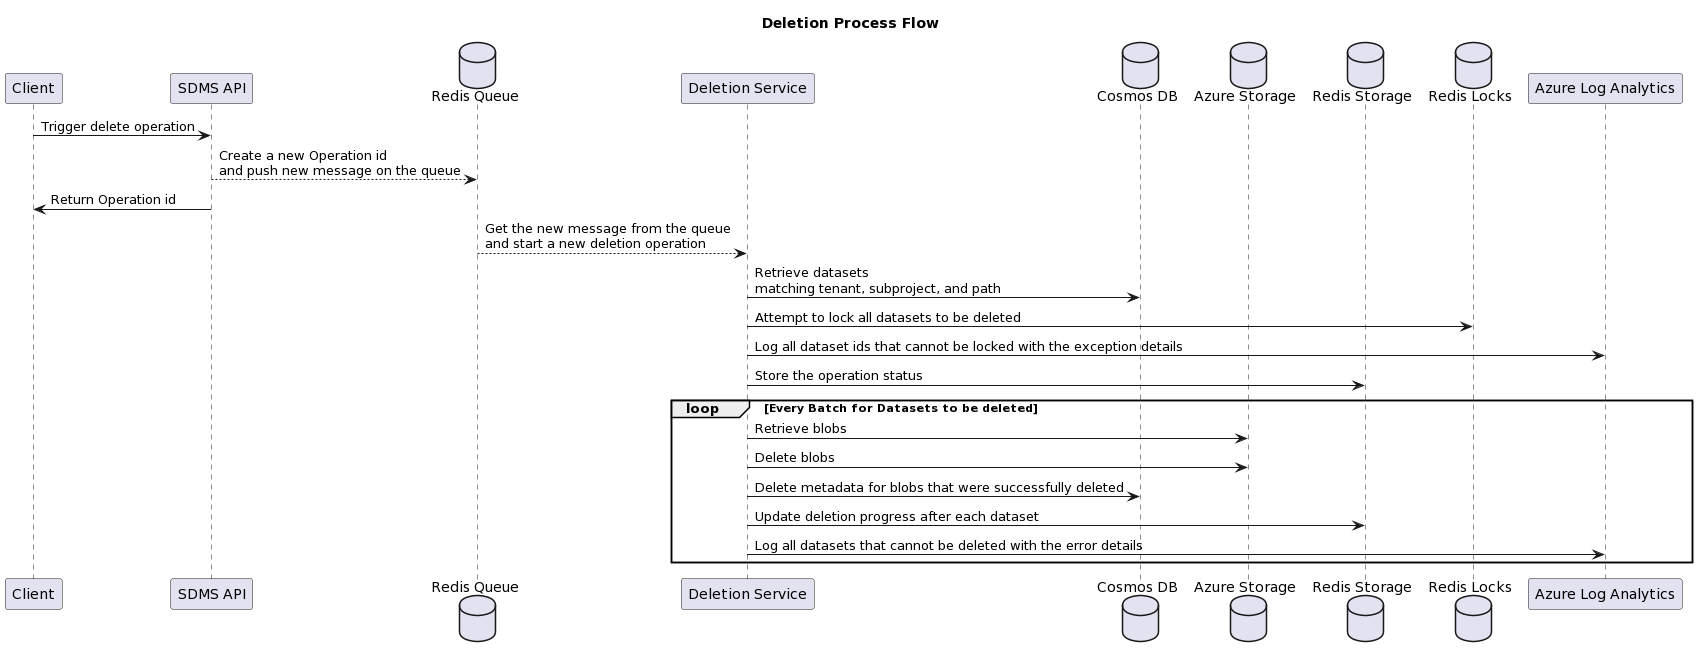
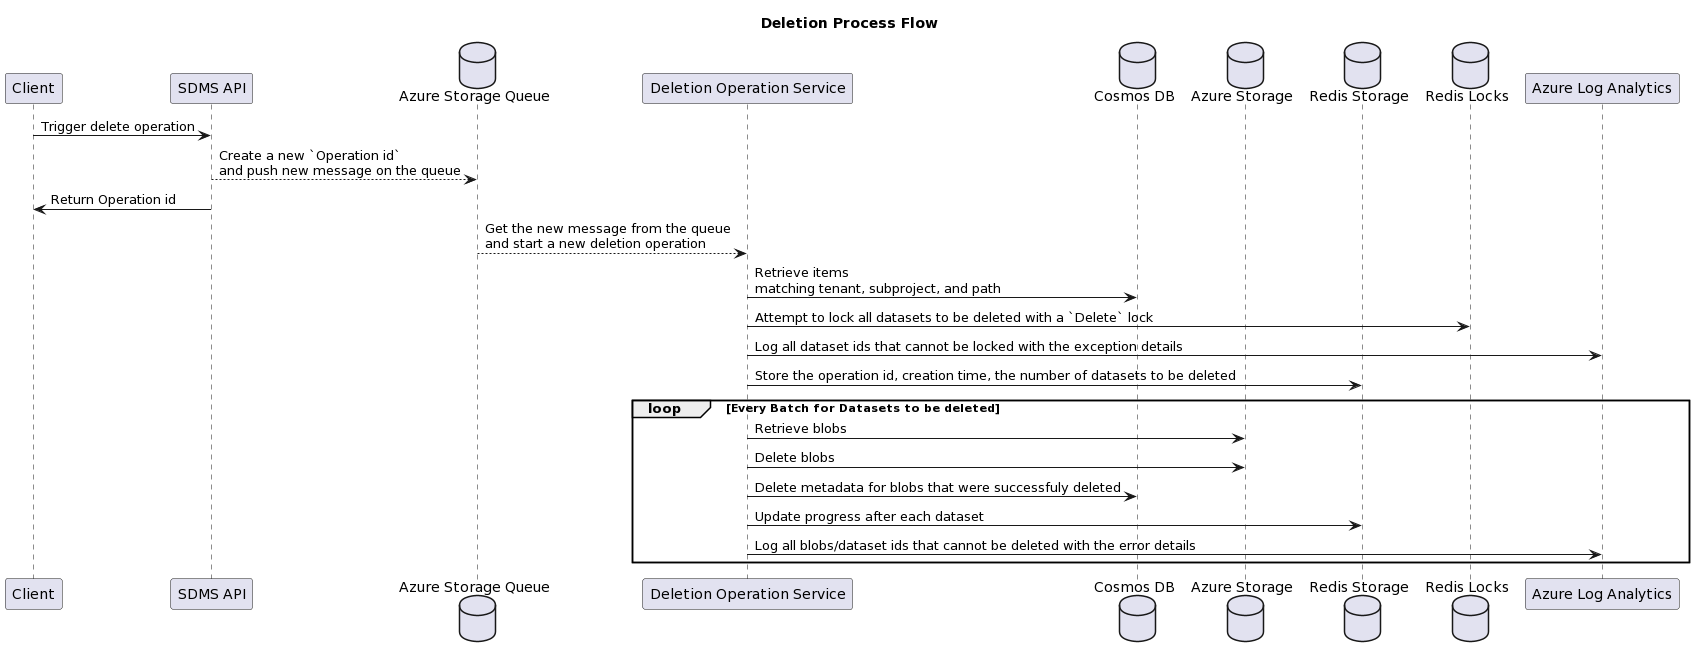
docs: Documentation update for the DeletionOperationRunner

diff --git a/app/sdms/src/cloud/providers/azure/sidecar/src/Sidecar.DeleteOperationRunner/README.md b/app/sdms/src/cloud/providers/azure/sidecar/src/Sidecar.DeleteOperationRunner/README.md
@@ -35,8 +35,8 @@ This project provides an [.env.example](.env.example) file that provides the bas
 |-------------------------------------|---------------------------------------------------------------------------------------------------------------------------------------------------------------------------------------------------------------------------------------------------------------------------------------------------------------------------------------------------------------------------------------------------------------------------------------------------------------------------------------------------------------------------------------------------------------------------| - |
 | __HOST_PORT__                       | On which local port to expose the health-check endpoints.                                                                                                                                                                                                                                                                                                                                                                                                                                                                                                                  | "8001",
 | __SDMS_KEYVAULT_URL__               | Required. Keyvault url stores secret values for all partitions (for cosmos, redis, account storage), while secret names are provided by the DES service. Also stores the Application Resource Id.                                                                                                                                                                                                                                                                                                                                                                           | "<https://kv-4e37ckkpdir6i.vault.azure.net/>",
-| __SDMS_REDIS_QUEUE_HOSTNAME__       | Host of the Redis instance that holds the queue for deletion operations.<br /><br />  In the typical Azure deployment, this Redis instance starts with the prefix `cache`.<br /><br />This value is required if the __DES_SERVICE_HOST__ is not supplied.                                                                                                                                                                                                                                                                                                                 | cache-xxxxx.redis.cache.windows.net:6380,password=password_here,ssl=True,abortConnect=False   |
-| __SDMS_REDIS_QUEUE_PASSWORD__       | Password for the Redis instance that holds the queue for deletion operations.<br /><br />  This value is required if the __DES_SERVICE_HOST__ is not supplied.                                                                                                                                                                                                                                                                                                                                                                                                            | password  |
+| __SDMS_REDIS_QUEUE_HOSTNAME__       | Host of the Redis instance that holds the queue for deletion operation status.<br /><br />  In the typical Azure deployment, this Redis instance starts with the prefix `cache`.<br /><br />This value is required if the __DES_SERVICE_HOST__ is not supplied.                                                                                                                                                                                                                                                                                                                 | cache-xxxxx.redis.cache.windows.net:6380,password=password_here,ssl=True,abortConnect=False   |
+| __SDMS_REDIS_QUEUE_PASSWORD__       | Password for the Redis instance that holds the queue for deletion operation status.<br /><br />  This value is required if the __DES_SERVICE_HOST__ is not supplied.                                                                                                                                                                                                                                                                                                                                                                                                            | password  |
 | __SDMS_REDIS_QUEUE_NAME__           | The name of the queue in Redis; the queue is of type `List`.<br /><br />This value is always required.                                                                                                                                                                                                                                                                                                                                                                                                                                                                    | delete-job-queue   |
 | __STORAGE_QUEUE_NAME__              | The name of the storage queue to use for submitting deletion tasks.<br /><br /> If not specified, a default queue name will be used.                                                                                                                                                                                                                                                                                                                                                                                                                                                                    | delete-job-queue   |
 | __SDMS_COSMOS_ENDPOINT__            | The url for the Cosmos instance.<br /><br />This value can be found in the deployment in the Cosmos instance that stores the metadata for SDMS.<br /><br />This value is required if the __DES_SERVICE_HOST__ is not supplied.                                                                                                                                                                                                                                                                                                                                            |    |
